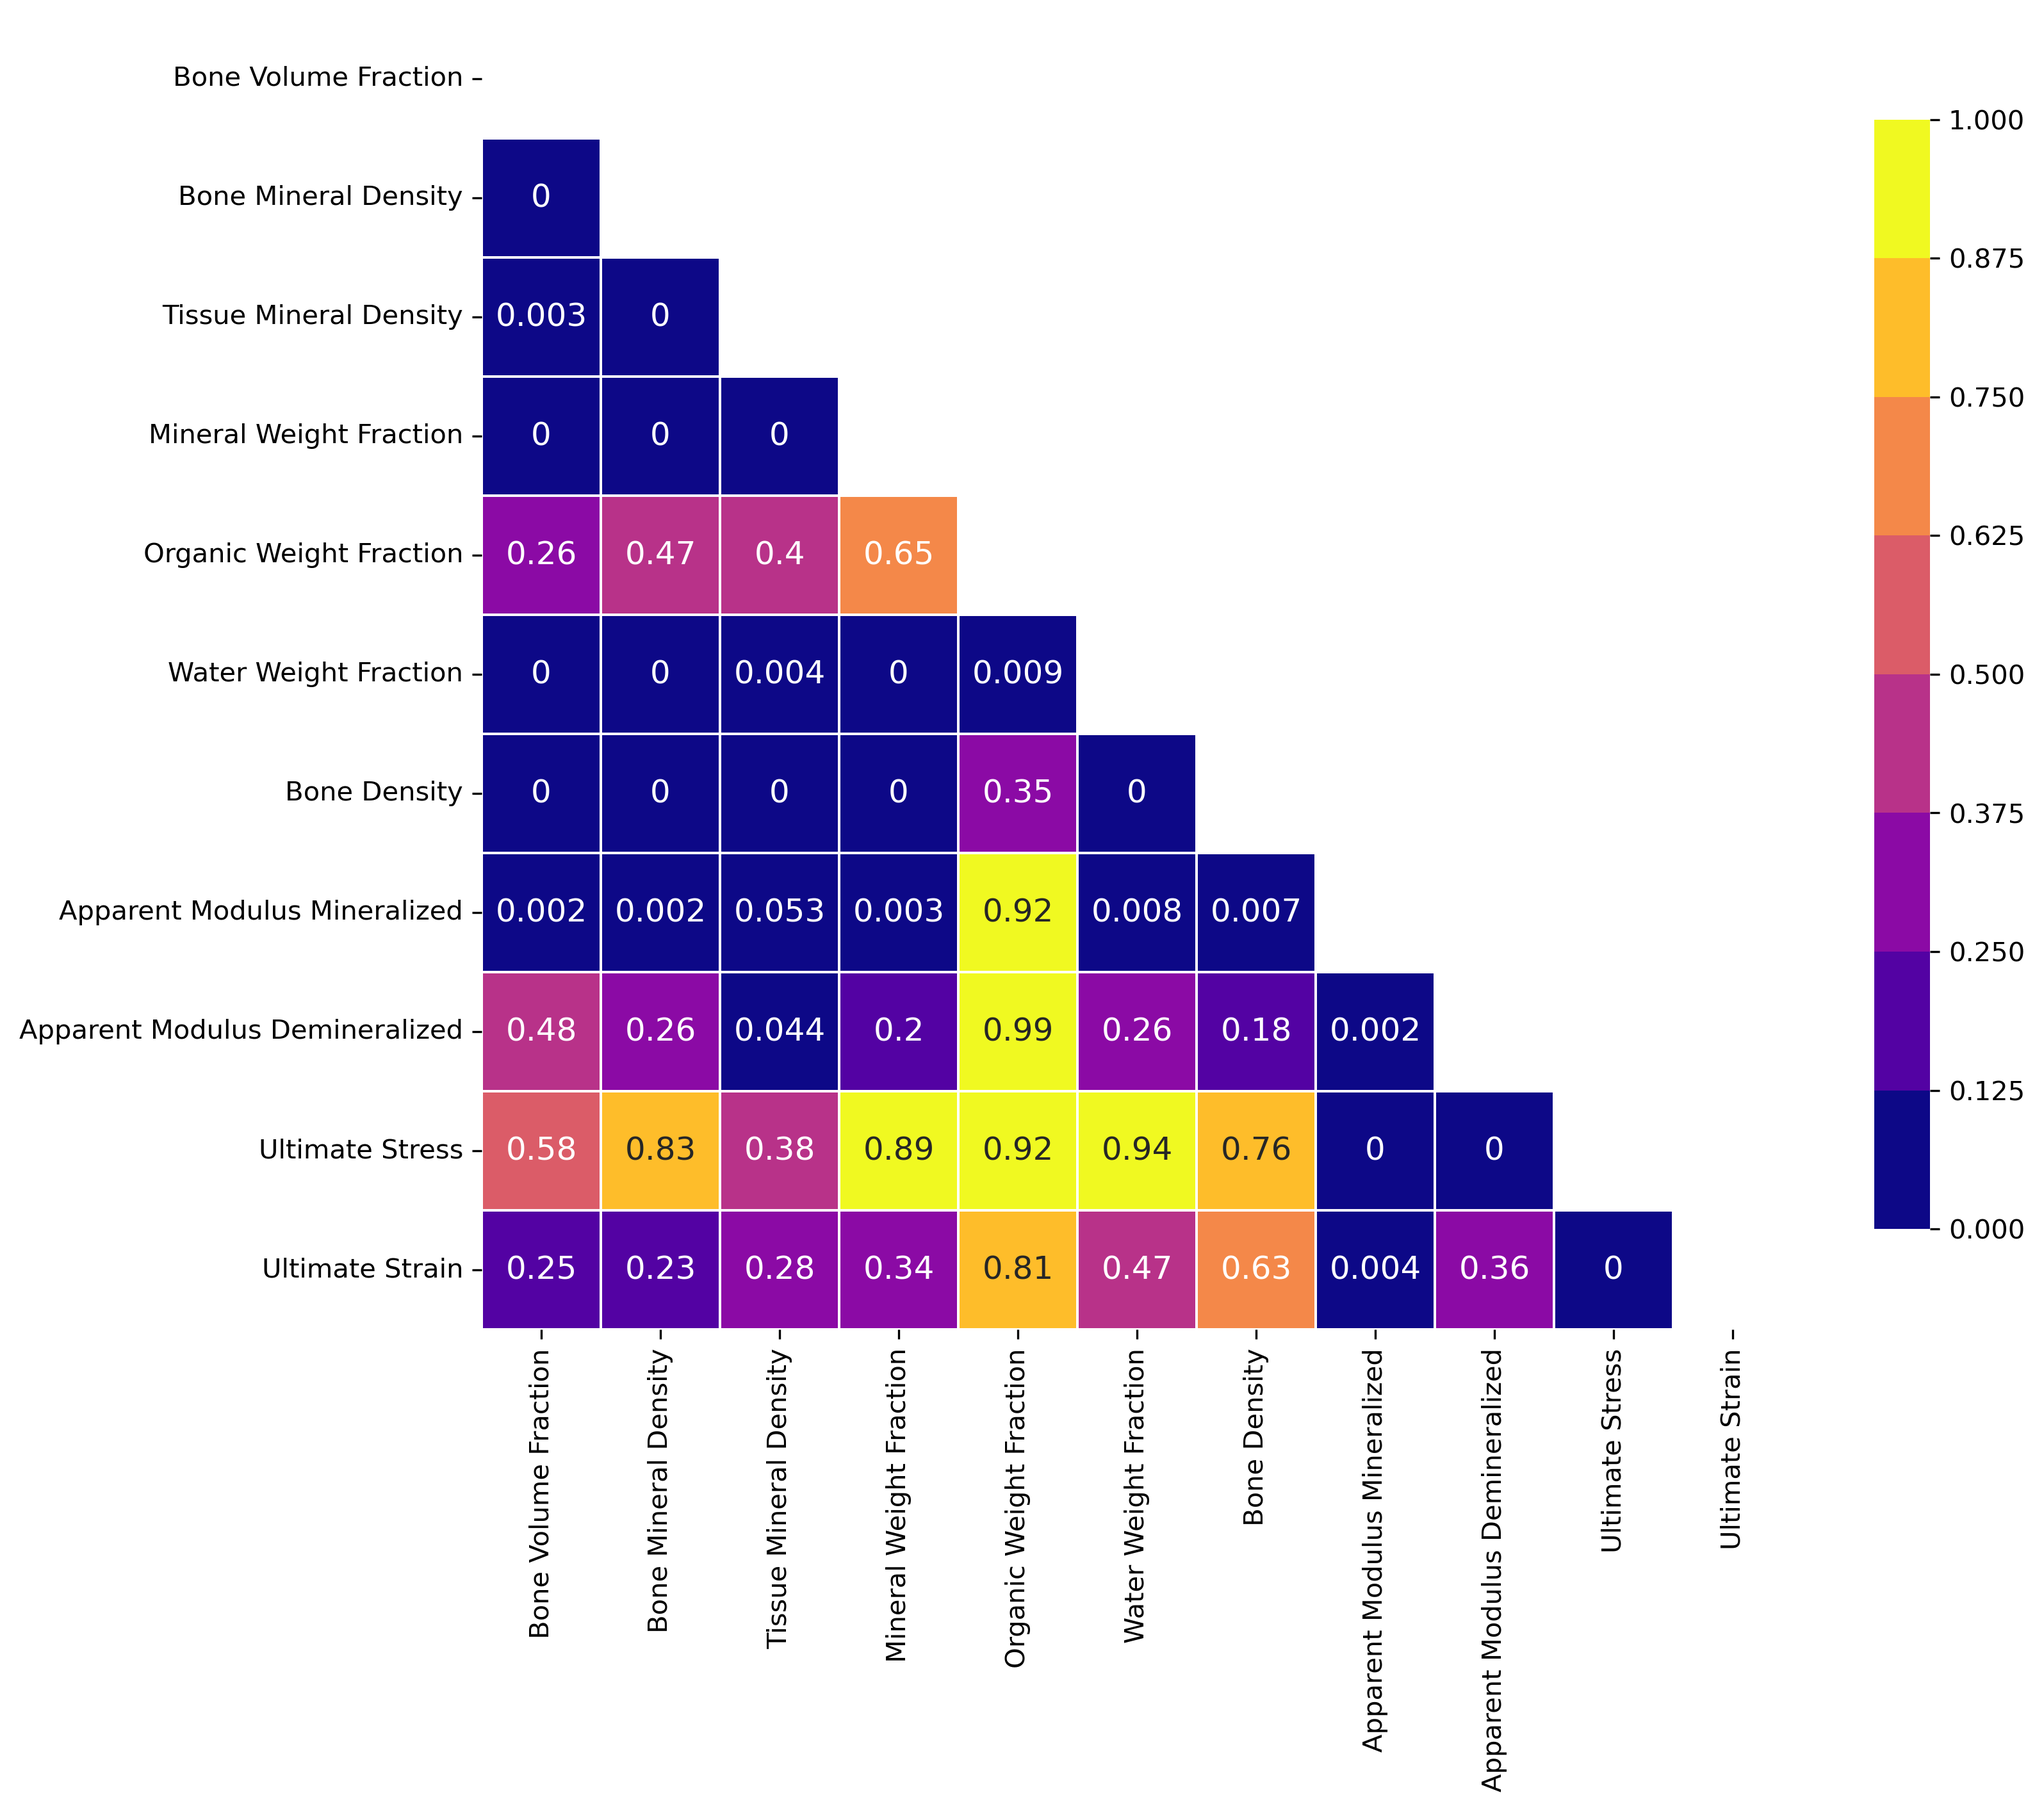
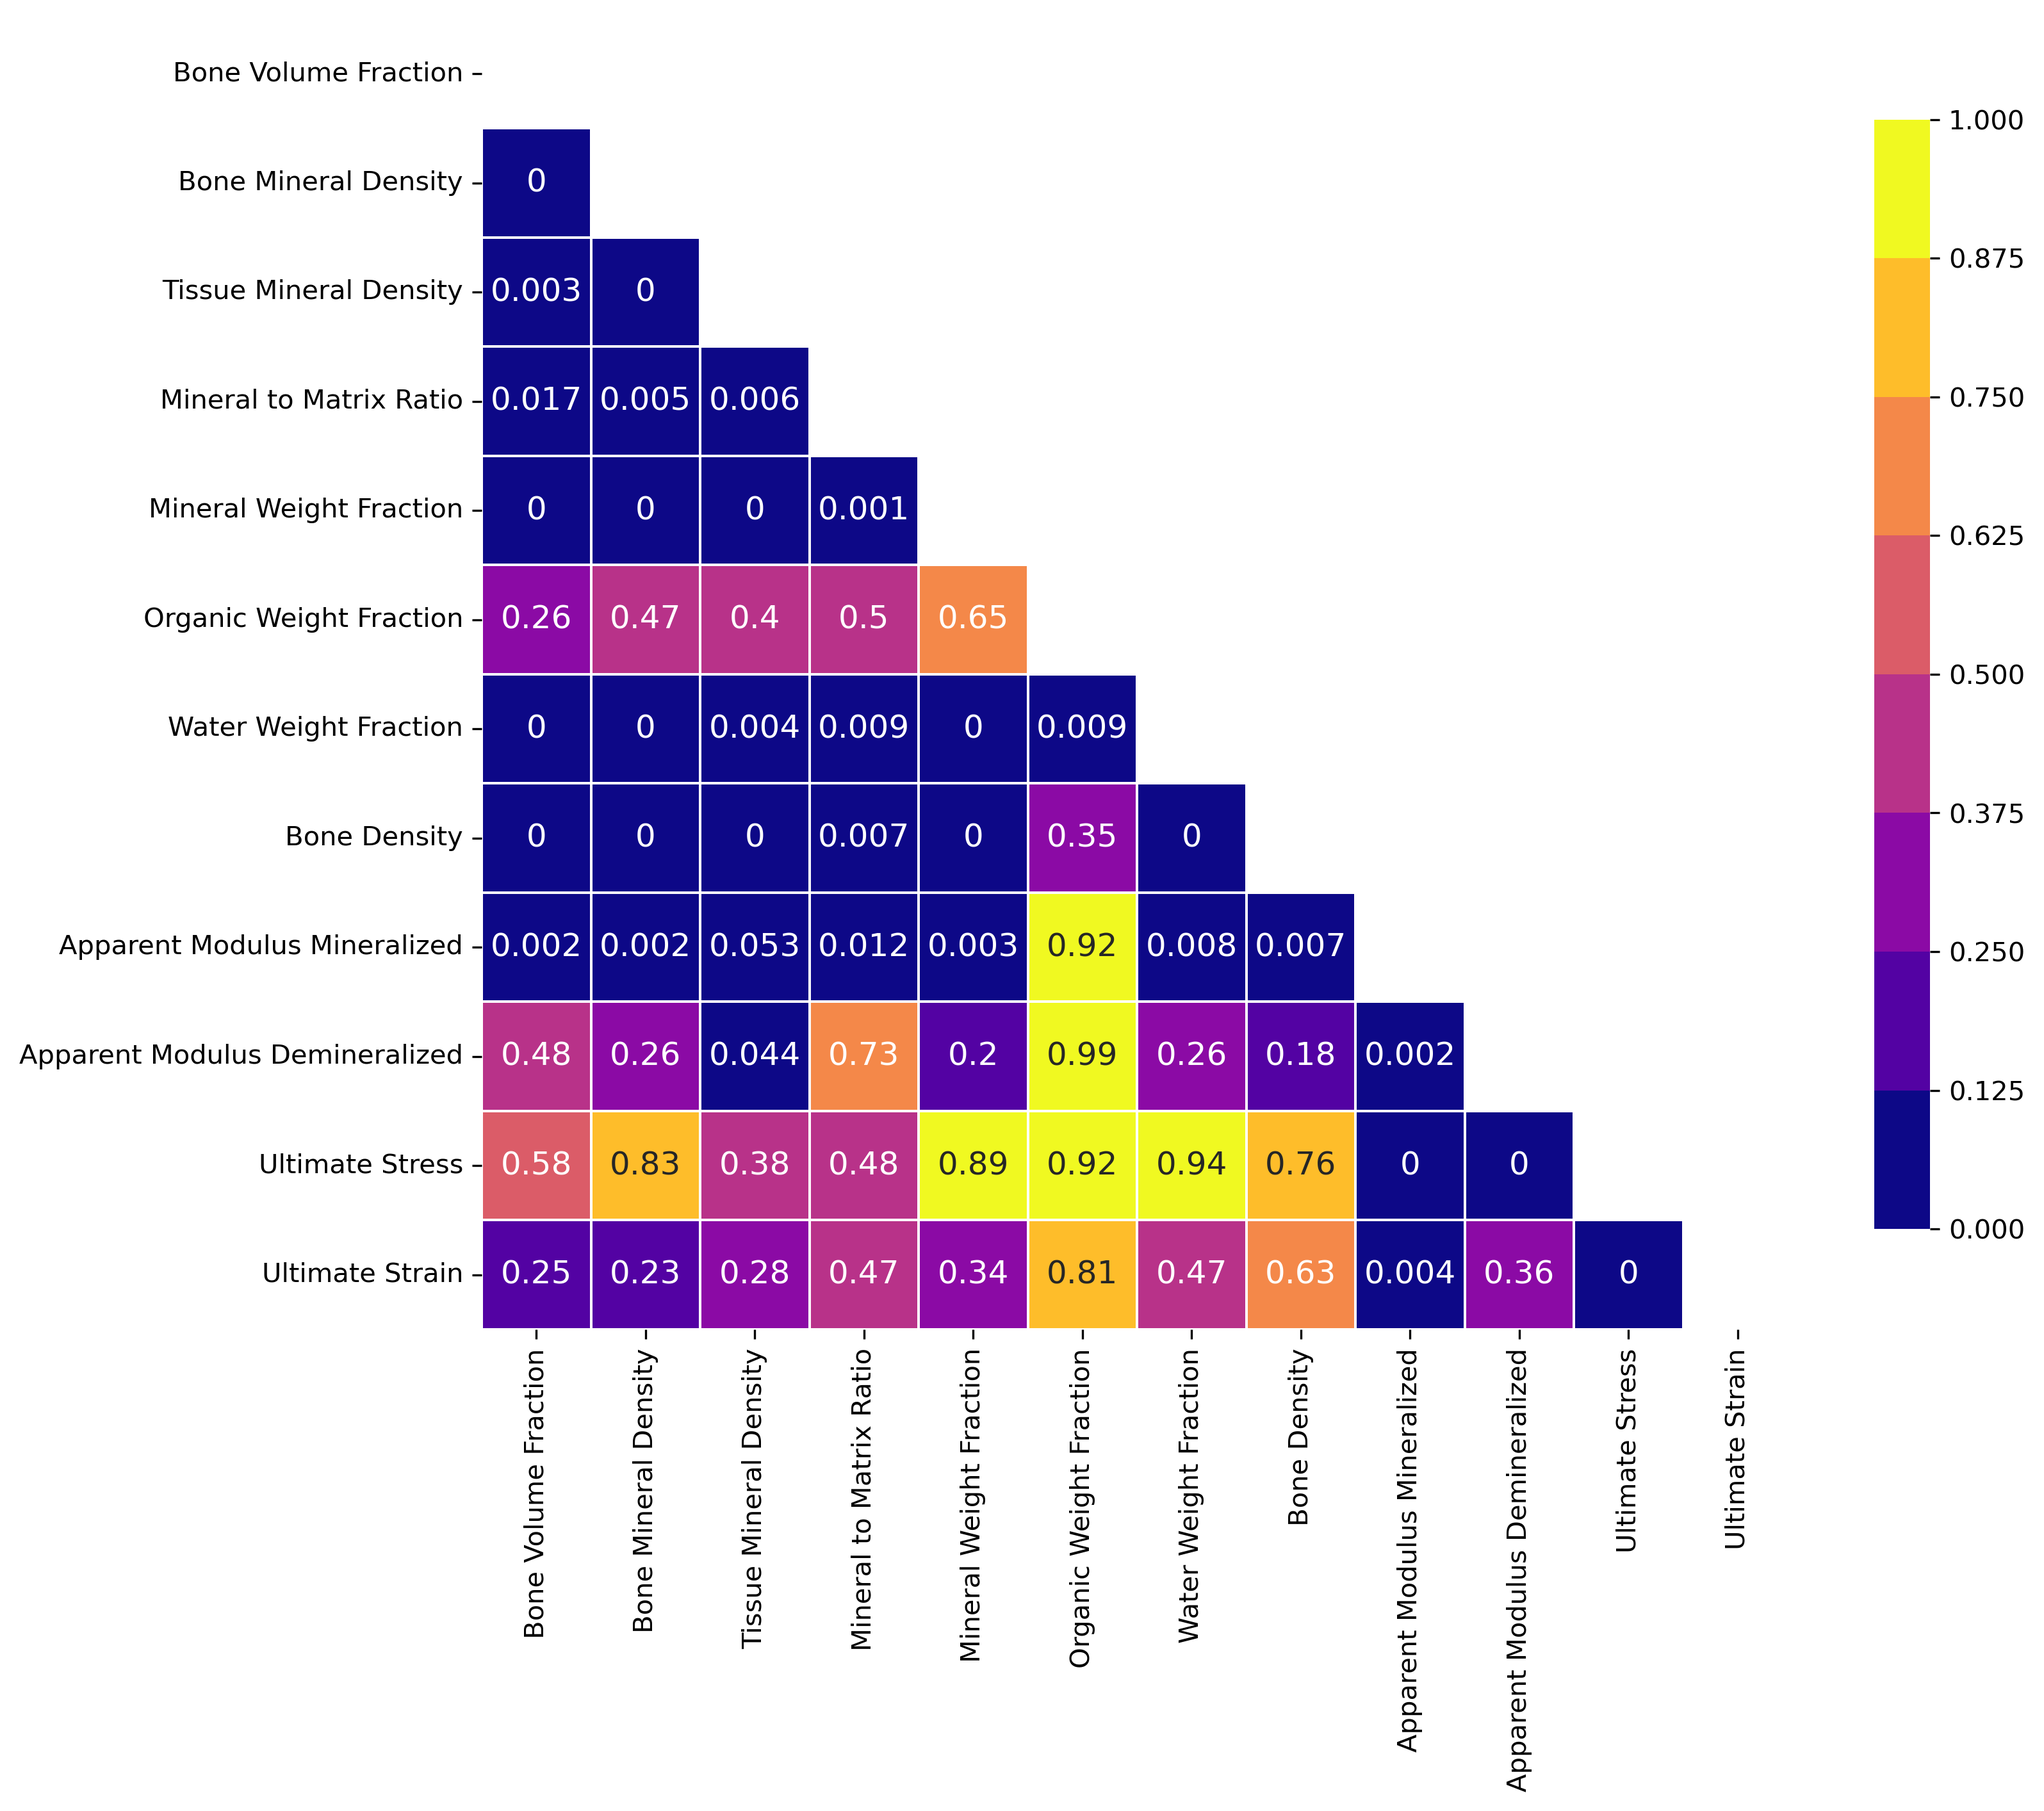
addition of MMR from raman measurements

diff --git a/03_Scripts/CorrMat.py b/03_Scripts/CorrMat.py
@@ -10,6 +10,7 @@ import os
 from scipy.stats.distributions import t  # Used to compute confidence intervals
 import sys
 import seaborn as sns
+from scipy.stats import linregress
 
 # Set directory & load data
 Cwd = Path.cwd()
@@ -21,21 +22,17 @@ df = df.drop(columns=['Sample ID', 'Age', 'Gender', 'Ultimate Force N', 'Organic
                       'Water Weight g', 'Minimum Equivalent Diameter mm', 'Mean Apparent Diameter mm',
                       'Mean Area Fraction -', 'Min Area Fraction -', 'Minimum Area mm²', 'Mean Apparent Area mm²'])
 df_new = df[['Bone Volume Fraction -', 'Bone Mineral Density mg HA / cm³', 'Tissue Mineral Density mg HA / cm³',
-             'Mineral weight fraction -', 'Organic weight fraction -', 'Water weight fraction -', 'Density g/cm³',
-             'Apparent Modulus Mineralized MPa', 'Apparent Modulus Demineralized MPa', 'Ultimate Stress MPa',
-             'Ultimate Strain -']]
-df_new.columns = ['Bone Volume Fraction', 'Bone Mineral Density', 'Tissue Mineral Density', 'Mineral Weight Fraction',
-                  'Organic Weight Fraction', 'Water Weight Fraction', 'Bone Density', 'Apparent Modulus Mineralized',
-                  'Apparent Modulus Demineralized', 'Ultimate Stress', 'Ultimate Strain']
+             'Mineral to Matrix Ratio -', 'Mineral weight fraction -', 'Organic weight fraction -',
+             'Water weight fraction -', 'Density g/cm³', 'Apparent Modulus Mineralized MPa',
+             'Apparent Modulus Demineralized MPa', 'Ultimate Stress MPa', 'Ultimate Strain -']]
+df_new.columns = ['Bone Volume Fraction', 'Bone Mineral Density', 'Tissue Mineral Density', 'Mineral to Matrix Ratio',
+                  'Mineral Weight Fraction', 'Organic Weight Fraction', 'Water Weight Fraction', 'Bone Density',
+                  'Apparent Modulus Mineralized', 'Apparent Modulus Demineralized', 'Ultimate Stress', 'Ultimate Strain']
 corr_matrix = df_new.corr()
-
-from scipy.stats import linregress
 
 for i in df_new.columns:
     for j in df_new.columns:
         corr_matrix.loc[i, j] = round(linregress(df_new[j], df_new[i])[3], 3)
-
-
 
 p_matrix = pd.DataFrame()
 mask = np.zeros_like(corr_matrix, dtype=np.bool_)

diff --git a/03_Scripts/plots_new.py b/03_Scripts/plots_new.py
@@ -49,6 +49,7 @@ Pair = pd.DataFrame([
                      ['Age',                                'Minimum Area mm²'],
                      ['Age',                                'Mean Area Fraction -'],
                      ['Age',                                'Min Area Fraction -'],
+                     ['Age',                                'Mineral to Matrix Ratio -'],
                      ['Bone Mineral Content mg HA',         'Stiffness Mineralized N/mm'],
                      ['Bone Mineral Density mg HA / cm³',   'Apparent Modulus Mineralized MPa'],
                      ['Bone Mineral Density mg HA / cm³',   'Ultimate Stress MPa'],
